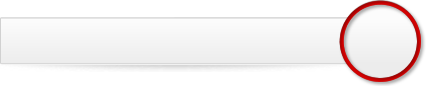
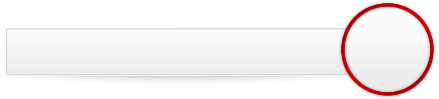
Fixing header in explorer

Changed region(s): [[0.0, 0.0, 1.0, 1.0], [0.0, 0.2791, 0.0305, 0.6279], [0.0, 0.7209, 0.0305, 0.7442]]

diff --git a/sites/all/themes/basic/css/yaquemotors.css b/sites/all/themes/basic/css/yaquemotors.css
@@ -109,8 +109,8 @@ root {
         background-image: url("/sites/default/files/images/vehiclesAgency/resultsHeader.png");
         height: 63px;
         padding-left: 19px;
-        padding-top: 23px;
-        width: 407px;
+        padding-top: 34px;
+        width: 418px;
         position: relative;
 }
 
@@ -130,30 +130,30 @@ root {
 
 {
     
-    background-size: 223px 48px;
+
     display: block;
     height: 57px;
     position: absolute;
     right: 9px;
-    top:11px;    
-    width: 73px;
+    top:17px;    
+    width: 81px;
     
     
 }
 
 #vehicles-agency-search-results-title-brand-logo.chevrolet
 {
-    background-position: 82px 4px;
+    background-position: 92px -5px;
 }
 
 #vehicles-agency-search-results-title-brand-logo.nissan
 {
-    background-position: 157px 4px;
+    background-position: 176px -5px;
 }
 
 #vehicles-agency-search-results-title-brand-logo.suzuki
 {
-     background-position: 230px 4px;
+     background-position: 6px -5px;
 }
 
 
